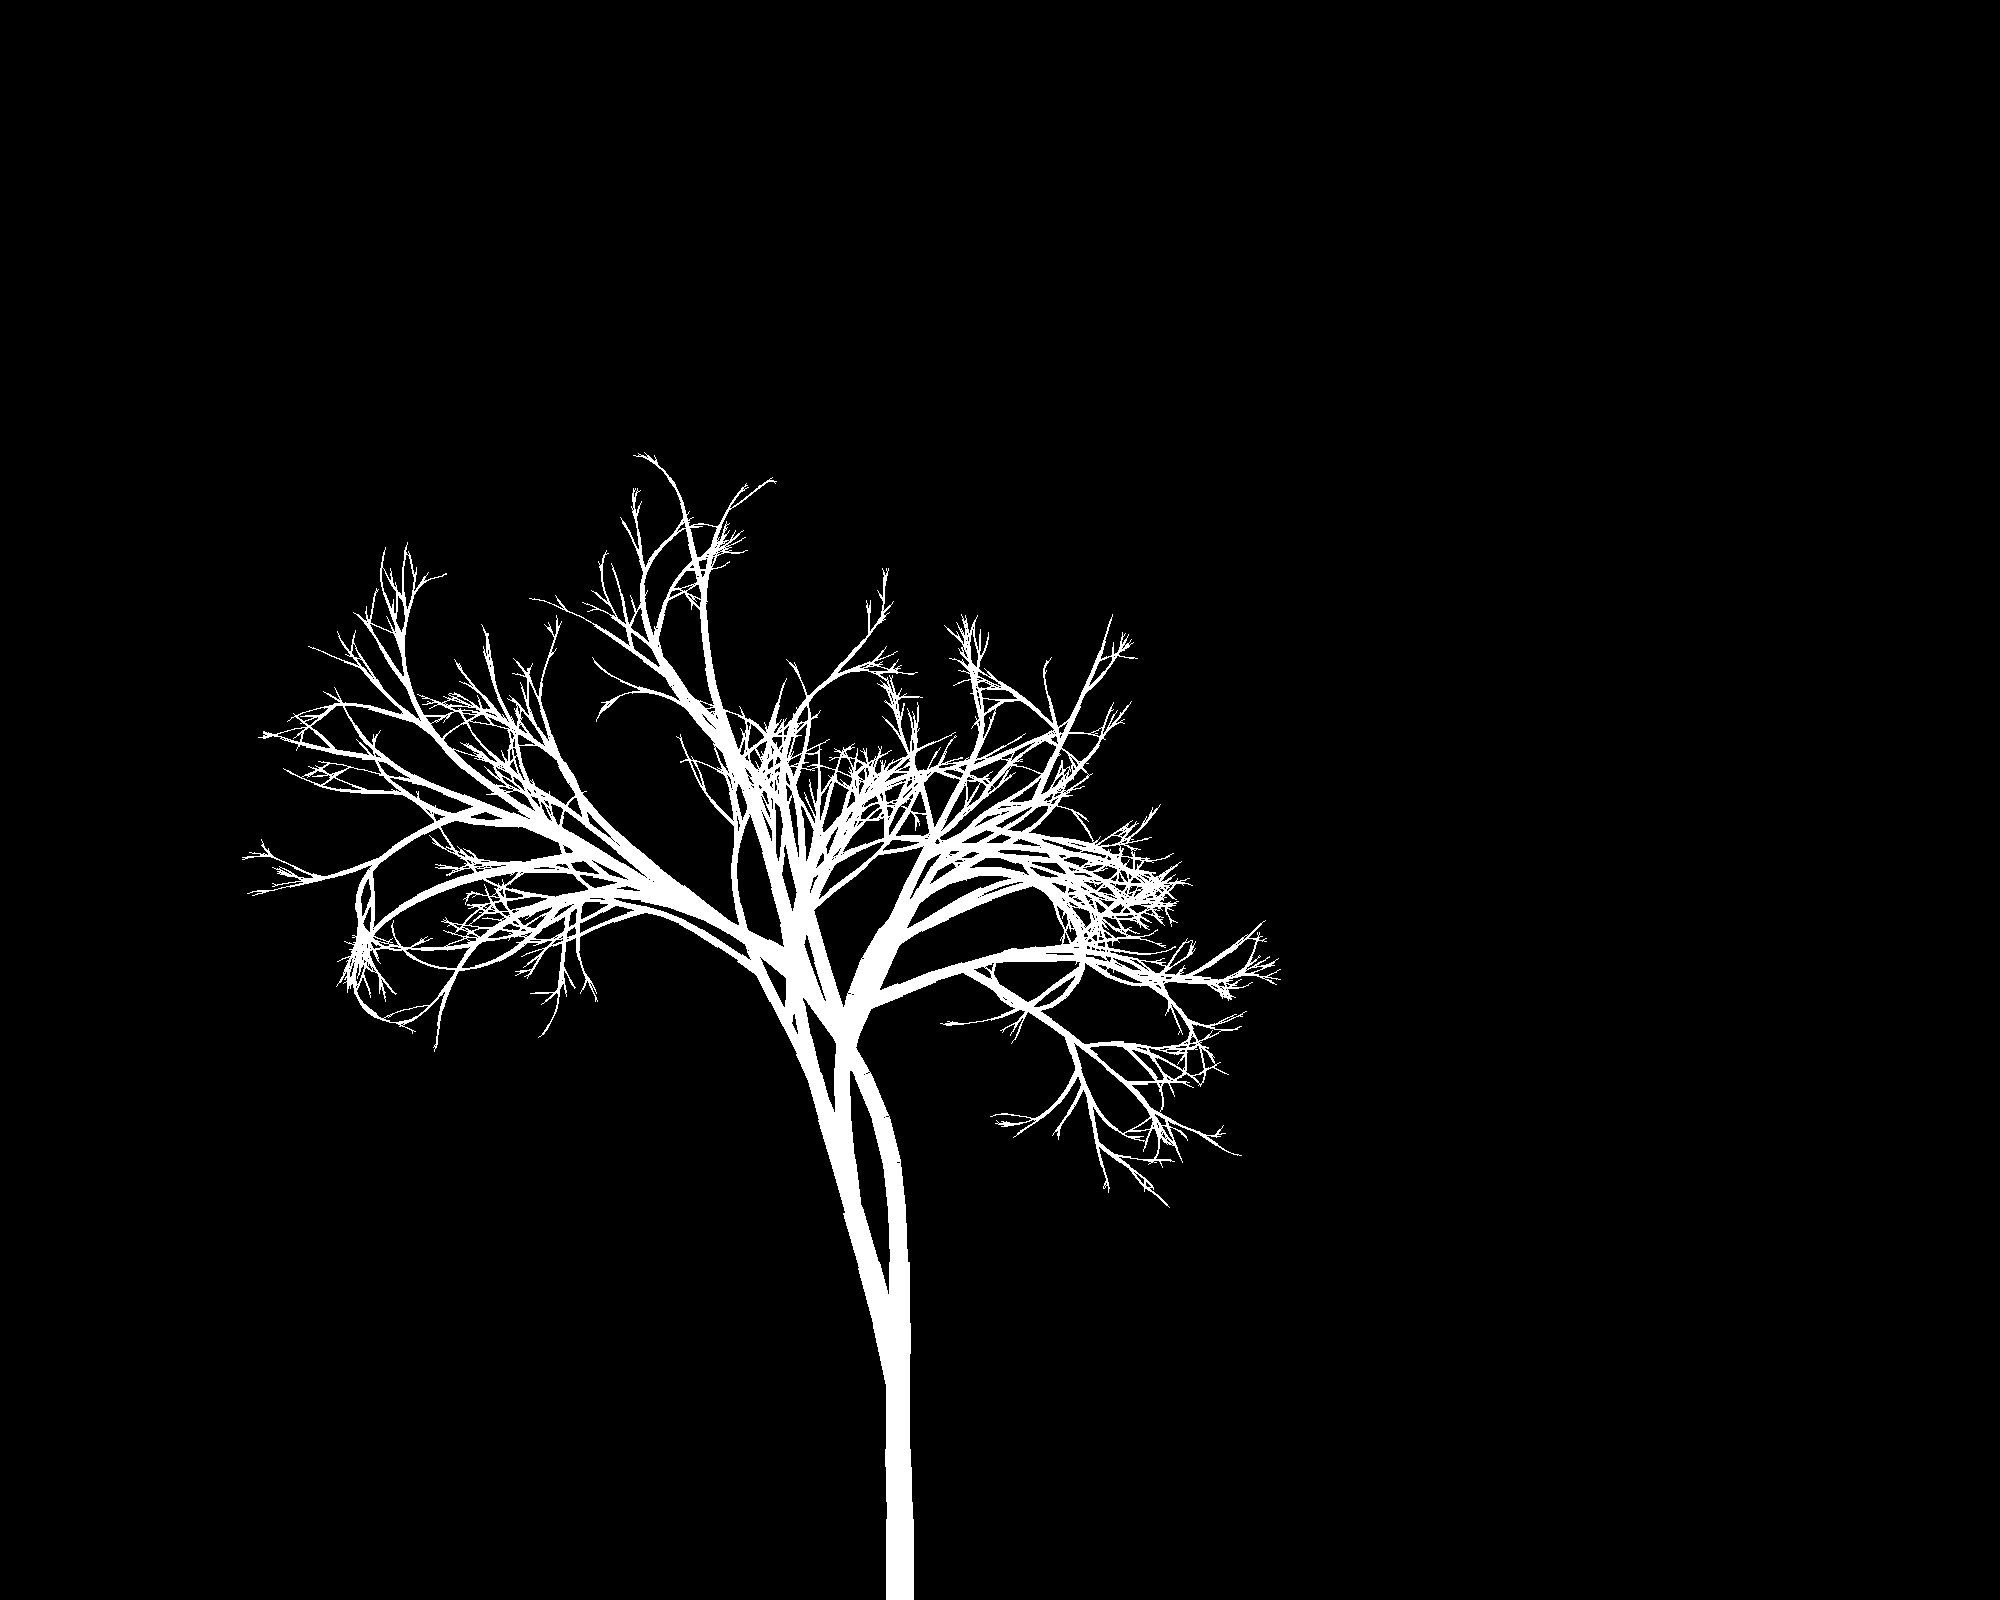
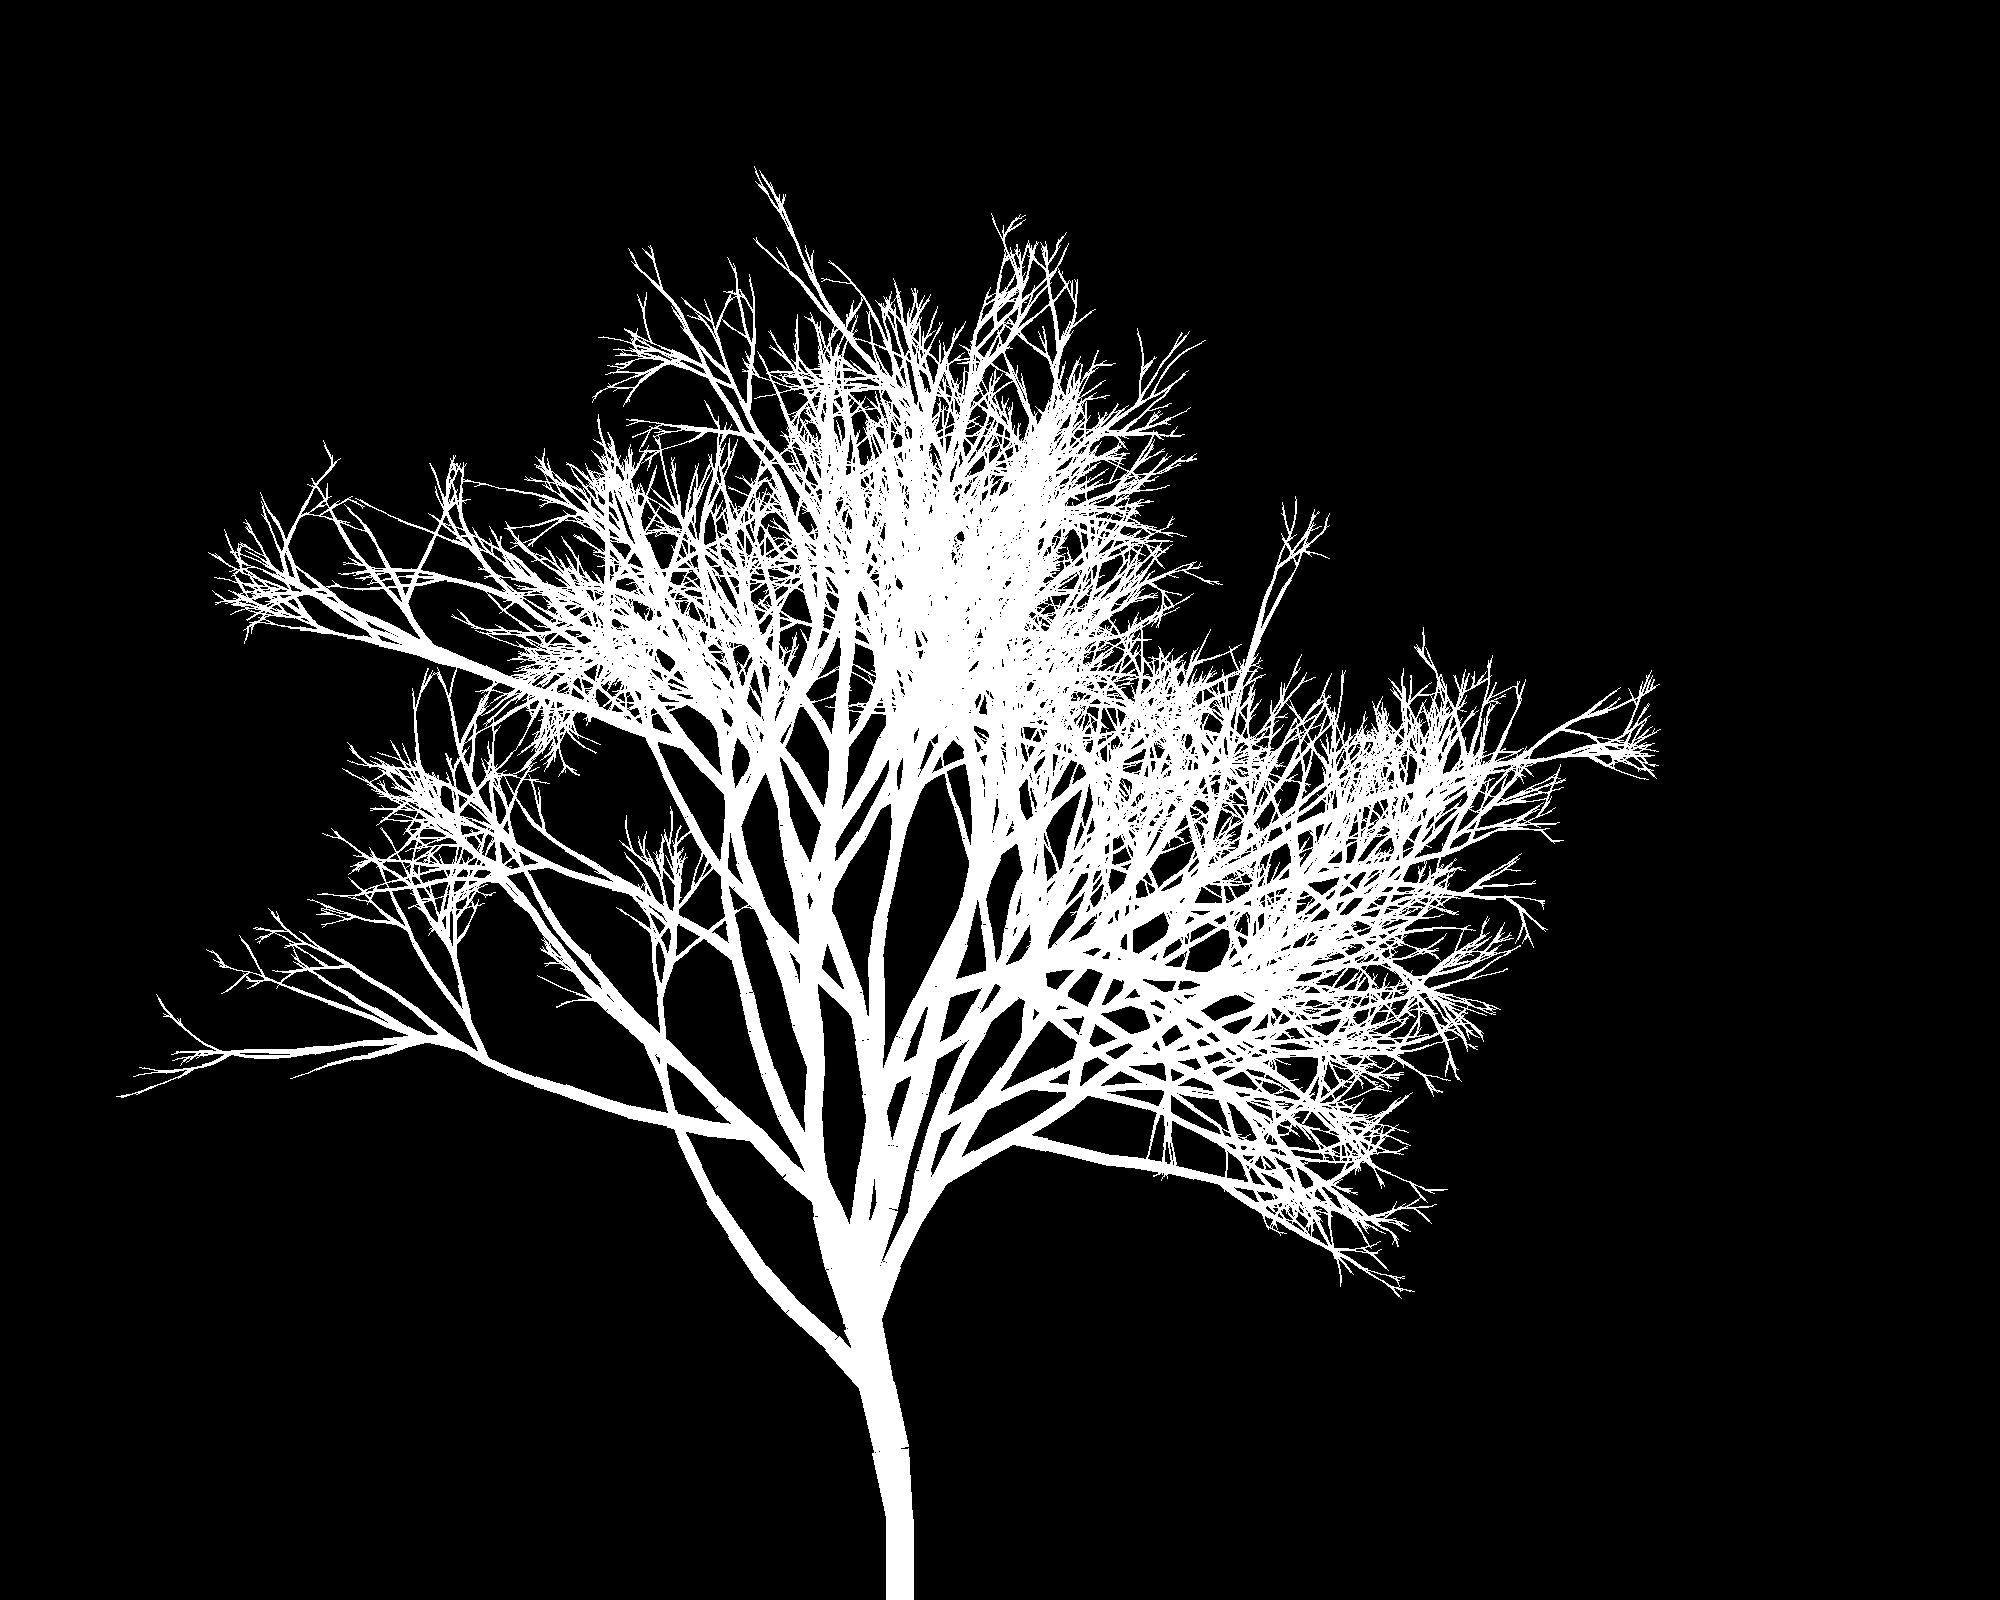
changing parameters

Changed region(s): [[0.093, 0.1562, 0.837, 0.9375], [0.093, 0.6562, 0.155, 0.6875]]

diff --git a/randagasfa2recursive.py b/randagasfa2recursive.py
@@ -10,7 +10,7 @@ draw = ImageDraw.Draw(im)
 w = 1800
 h = 1600
 n = 10
-q = 0.82                        # 1. paraméter: szakaszrövidülési kvóciens alsó határa
+q = 0.88                        # 1. paraméter: szakaszrövidülési kvóciens alsó határa
 random.seed()
 startx = w // 2
 starty = h - 1
@@ -29,7 +29,7 @@ def branch(actualx, actualy, actuallength, actualangle):  # ágrajzolás
         u = int(x + l * np.cos(angle))
         v = int(y - l * np.sin(angle))
         l = int((q + 0.06 * random.randint(0,2)) * l)  # 4. paraméter: szakaszrövidülési kvóciens intervalluma: itt q = 0.88...0.94
-        curvature = 0.00001 * (random.randint(0, 1000) - 501) * np.pi
+        curvature = 0.0001 * (random.randint(0, 1000) - 501) * np.pi
         # kvázi görbület: a szögváltozás változása,  nagyon érzékeny a konkrét paraméterekre / = 0.0175 Pi = 3.15 fok
         # 5. paraméter: szakaszgörbület, itt 0.0175 Pi
         angle += curvature
@@ -44,4 +44,4 @@ def branch(actualx, actualy, actuallength, actualangle):  # ágrajzolás
 
 branch(startx, starty, startlength, startangle)
 im.show()
-im.save("randagasfa1recursive1.jpg")
+im.save("randagasfa1recursive21.jpg")
